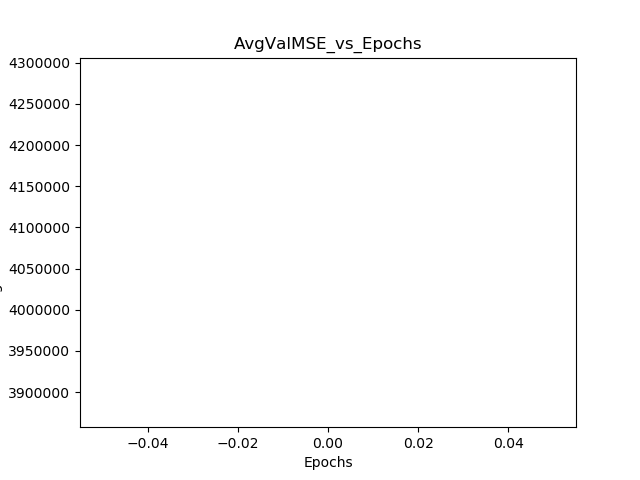
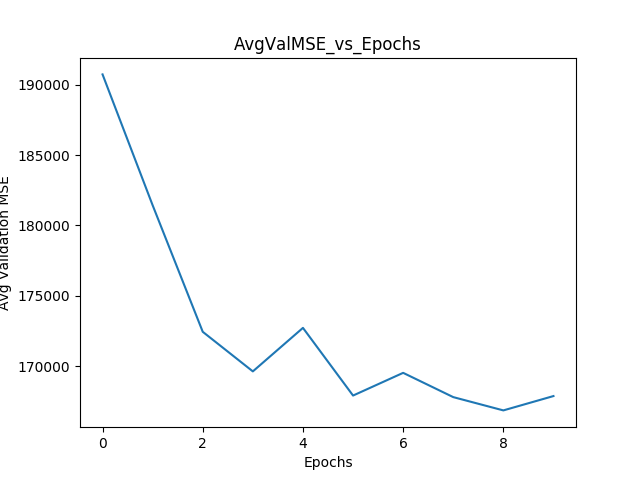
fcn results

diff --git a/fully_conv_train_improved.py b/fully_conv_train_improved.py
@@ -484,7 +484,7 @@ def testModelAndSaveOutputs(name, path, device, model, valSSIM, test_loader, tes
 
         print("Best Epoch wrt Avg Validation SSIM: ", best_id+1)
 
-    torch.save(bestESmodel.state_dict(), path+'models/bestESModel_'+name+'.ckpt')
+    torch.save(bestESmodel.state_dict(), path+'models/bestESModel_'+name+str(use_perceptual_loss)+'.ckpt')
 ###############################################################################################################################################
 
 path = ''
@@ -524,9 +524,9 @@ num_training= 2100
 num_validation = 200
 num_test = 397
 
-num_epochs = 25
-learning_rate = 1e-4
-learning_rate_decay = 0.95
+num_epochs = 10
+learning_rate = 1e-5
+learning_rate_decay = 0.8
 reg = 0.005
 batch_size = 2
 
